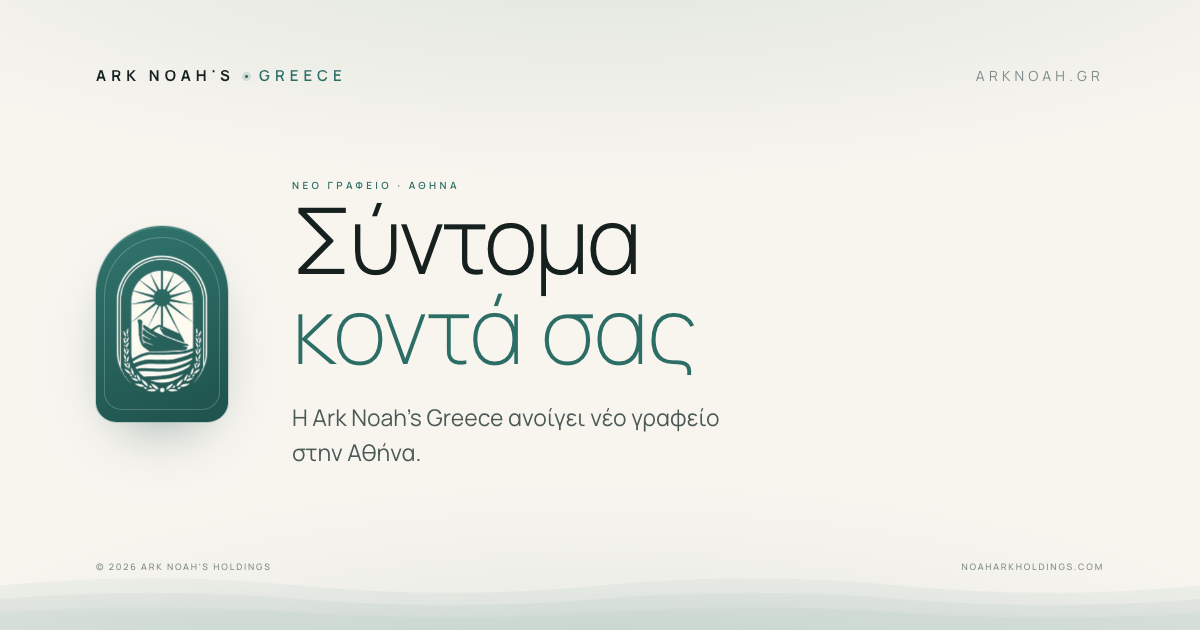
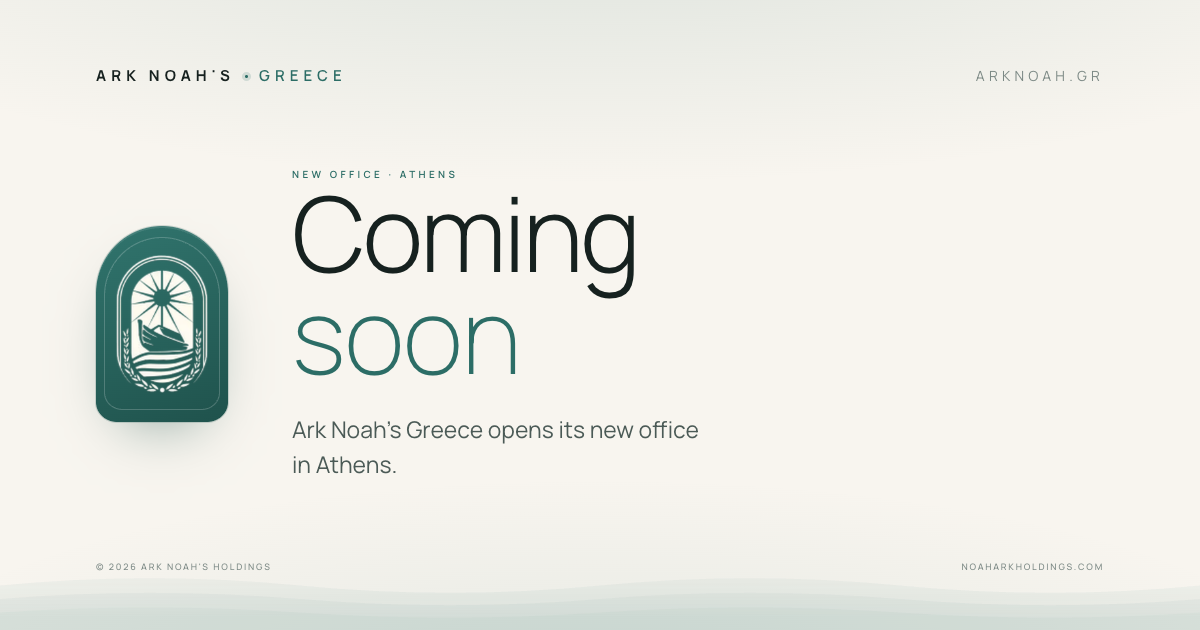
Default the page to English
- index.html ships English copy visible (html lang=en, EN title/description/og)
- app.js drops browser-locale sniffing: English unless a stored choice or ?lang=
- 404 page, webmanifest and og-image in English

Changed region(s): [[0.2467, 0.2714, 0.5858, 0.6032], [0.2467, 0.6333, 0.5858, 0.754], [0.555, 0.573, 0.5858, 0.6032]]

diff --git a/public/index.html b/public/index.html
@@ -1,10 +1,10 @@
 <!doctype html>
-<html lang="el">
+<html lang="en">
 <head>
 <meta charset="utf-8">
 <meta name="viewport" content="width=device-width, initial-scale=1">
-<title>Ark Noah's Greece — Σύντομα κοντά σας</title>
-<meta name="description" content="Η Ark Noah's Greece ανοίγει νέο γραφείο στην Αθήνα. Σύντομα κοντά σας.">
+<title>Ark Noah's Greece — Coming soon</title>
+<meta name="description" content="Ark Noah's Greece is opening its new office in Athens. We look forward to welcoming you very soon.">
 <meta name="theme-color" content="#F8F5EF" media="(prefers-color-scheme: light)">
 <meta name="theme-color" content="#0E1516" media="(prefers-color-scheme: dark)">
 <meta name="color-scheme" content="light dark">
@@ -14,17 +14,17 @@
 <meta property="og:type" content="website">
 <meta property="og:site_name" content="Ark Noah's Greece">
 <meta property="og:url" content="https://arknoah.gr/">
-<meta property="og:title" content="Ark Noah's Greece — Σύντομα κοντά σας">
-<meta property="og:description" content="Η Ark Noah's Greece ανοίγει νέο γραφείο στην Αθήνα. Σύντομα κοντά σας.">
+<meta property="og:title" content="Ark Noah's Greece — Coming soon">
+<meta property="og:description" content="Ark Noah's Greece is opening its new office in Athens. We look forward to welcoming you very soon.">
 <meta property="og:image" content="https://arknoah.gr/og-image.png">
 <meta property="og:image:width" content="1200">
 <meta property="og:image:height" content="630">
-<meta property="og:locale" content="el_GR">
-<meta property="og:locale:alternate" content="en_US">
+<meta property="og:locale" content="en_US">
+<meta property="og:locale:alternate" content="el_GR">
 <meta property="og:locale:alternate" content="ru_RU">
 <meta name="twitter:card" content="summary_large_image">
-<meta name="twitter:title" content="Ark Noah's Greece — Σύντομα κοντά σας">
-<meta name="twitter:description" content="Η Ark Noah's Greece ανοίγει νέο γραφείο στην Αθήνα. Σύντομα κοντά σας.">
+<meta name="twitter:title" content="Ark Noah's Greece — Coming soon">
+<meta name="twitter:description" content="Ark Noah's Greece is opening its new office in Athens. We look forward to welcoming you very soon.">
 <meta name="twitter:image" content="https://arknoah.gr/og-image.png">
 
 <link rel="icon" href="/favicon.ico" sizes="any">
@@ -37,14 +37,14 @@
 <link rel="stylesheet" href="/assets/styles.css">
 </head>
 <body>
-<a class="skip" href="#stage">Μετάβαση στο περιεχόμενο</a>
+<a class="skip" href="#stage">Skip to content</a>
 
 <div class="shell">
   <header class="masthead">
     <p class="wordmark"><span>Ark Noah's</span><i aria-hidden="true"></i><span class="wordmark__gr">Greece</span></p>
-    <nav class="langs" aria-label="Γλώσσα / Language / Язык">
-      <button type="button" data-lang="el" aria-pressed="true" lang="el">ΕΛ</button>
-      <button type="button" data-lang="en" aria-pressed="false" lang="en">EN</button>
+    <nav class="langs" aria-label="Language">
+      <button type="button" data-lang="el" aria-pressed="false" lang="el">ΕΛ</button>
+      <button type="button" data-lang="en" aria-pressed="true" lang="en">EN</button>
       <button type="button" data-lang="ru" aria-pressed="false" lang="ru">RU</button>
     </nav>
   </header>
@@ -54,16 +54,16 @@
       <img src="/assets/emblem.webp" width="282" height="420" alt="Ark Noah's Greece" fetchpriority="high" decoding="async">
     </div>
 
-    <section class="copy" data-copy="el">
-      <p class="eyebrow">Νέο γραφείο · Αθήνα</p>
-      <h1 class="headline">Σύντομα<span>κοντά σας</span></h1>
-      <p class="lede">Η <b>Ark Noah's Greece</b> εγκαινιάζει το νέο της γραφείο στην Αθήνα. Θα χαρούμε να σας υποδεχτούμε σύντομα.</p>
-    </section>
-
-    <section class="copy" data-copy="en" hidden>
+    <section class="copy" data-copy="en">
       <p class="eyebrow">New office · Athens</p>
       <h1 class="headline">Coming<span>soon</span></h1>
       <p class="lede"><b>Ark Noah's Greece</b> is opening its new office in Athens. We look forward to welcoming you very soon.</p>
+    </section>
+
+    <section class="copy" data-copy="el" hidden>
+      <p class="eyebrow">Νέο γραφείο · Αθήνα</p>
+      <h1 class="headline">Σύντομα<span>κοντά σας</span></h1>
+      <p class="lede">Η <b>Ark Noah's Greece</b> εγκαινιάζει το νέο της γραφείο στην Αθήνα. Θα χαρούμε να σας υποδεχτούμε σύντομα.</p>
     </section>
 
     <section class="copy" data-copy="ru" hidden>

diff --git a/public/404.html b/public/404.html
@@ -1,11 +1,11 @@
 <!doctype html>
-<html lang="el">
+<html lang="en">
 <head>
 <meta charset="utf-8">
 <meta name="viewport" content="width=device-width, initial-scale=1">
 <meta name="theme-color" content="#F8F5EF">
 <meta name="robots" content="noindex">
-<title>Δεν βρέθηκε — Ark Noah's Greece</title>
+<title>Page not found — Ark Noah's Greece</title>
 <link rel="icon" href="/favicon.ico" sizes="any">
 <link rel="stylesheet" href="/assets/styles.css">
 </head>
@@ -18,9 +18,9 @@
     <div class="emblem">
       <img src="/assets/emblem.webp" width="282" height="420" alt="Ark Noah's Greece" decoding="async">
     </div>
-    <p class="eyebrow">Σφάλμα 404</p>
-    <h1 class="headline">Η σελίδα<span>δεν βρέθηκε</span></h1>
-    <p class="lede">Η διεύθυνση δεν υπάρχει. Επιστρέψτε στην <a href="/">αρχική σελίδα</a>.</p>
+    <p class="eyebrow">Error 404</p>
+    <h1 class="headline">Page<span>not found</span></h1>
+    <p class="lede">This address does not exist. Go back to the <a href="/">home page</a>.</p>
   </main>
   <footer class="baseline">
     <p>© 2026 Ark Noah's Holdings</p>

diff --git a/public/assets/app.js b/public/assets/app.js
@@ -38,16 +38,13 @@
     return value && LANGS[value] ? value : null;
   }
 
+  // English is the default for every visitor; a stored choice and ?lang= win.
   function detect() {
     const stored = store.read();
     if (stored && LANGS[stored]) return stored;
     const query = fromQuery();
     if (query) return query;
-    const nav = (navigator.languages || [navigator.language || "el"]).map((l) => String(l).slice(0, 2).toLowerCase());
-    if (nav.includes("el")) return "el";
-    if (nav.includes("ru")) return "ru";
-    if (nav.includes("en")) return "en";
-    return "el";
+    return "en";
   }
 
   function setName(selector, value) {
@@ -84,8 +81,7 @@
     button.addEventListener("click", () => apply(button.dataset.lang, true));
   });
 
-  const start = fromQuery() || detect();
-  apply(start, false);
+  apply(detect(), false);
 
   const year = document.querySelector("#year");
   if (year) year.textContent = String(new Date().getFullYear());
